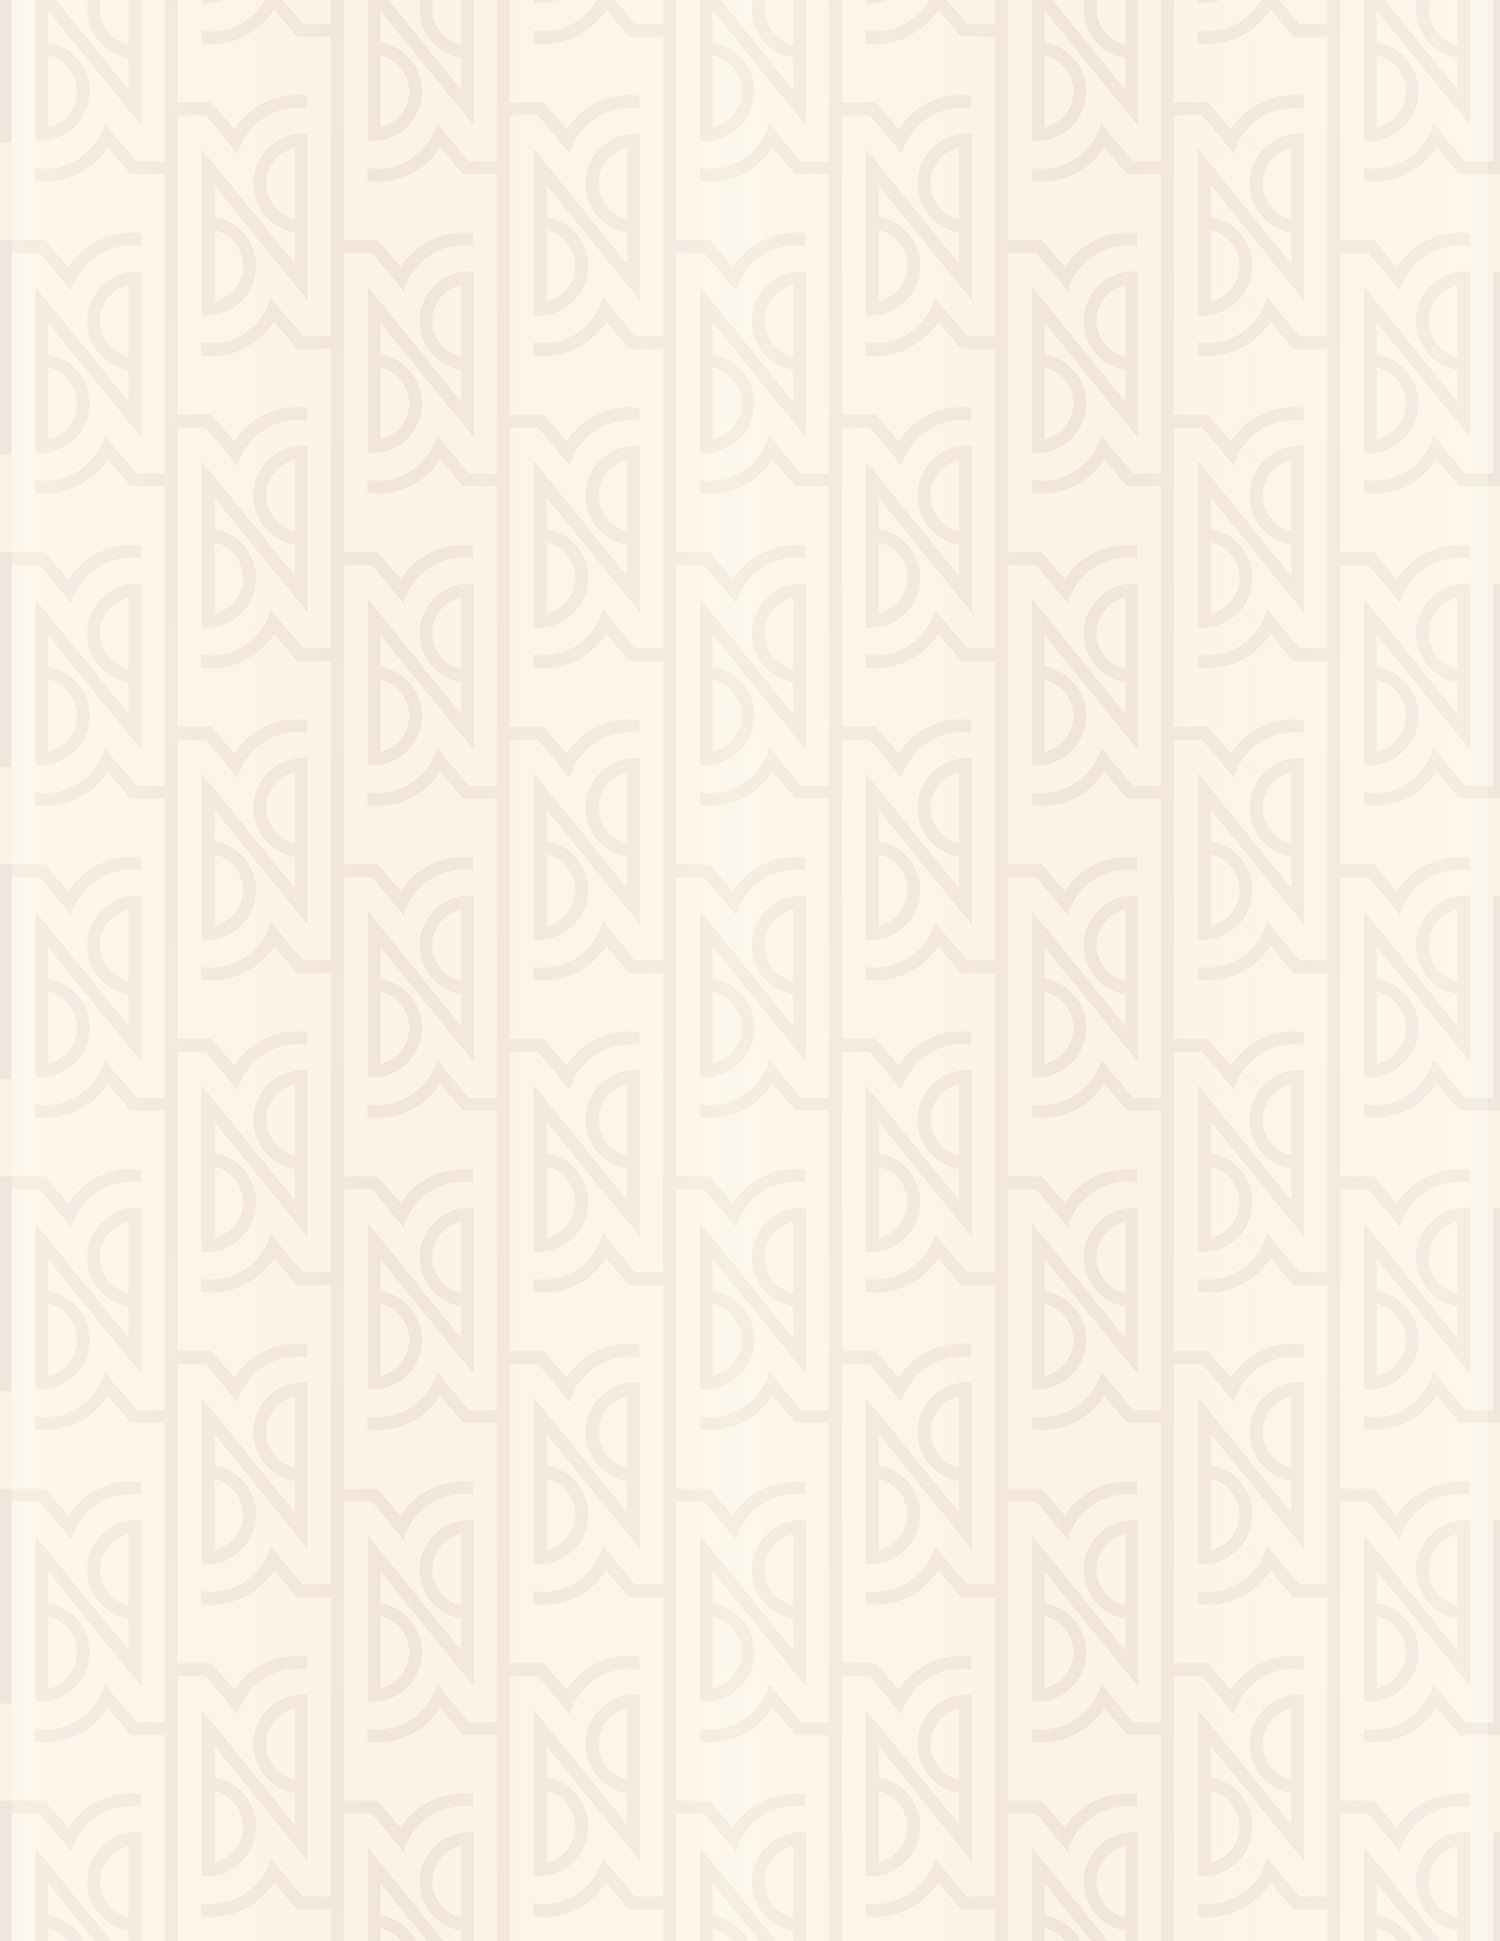
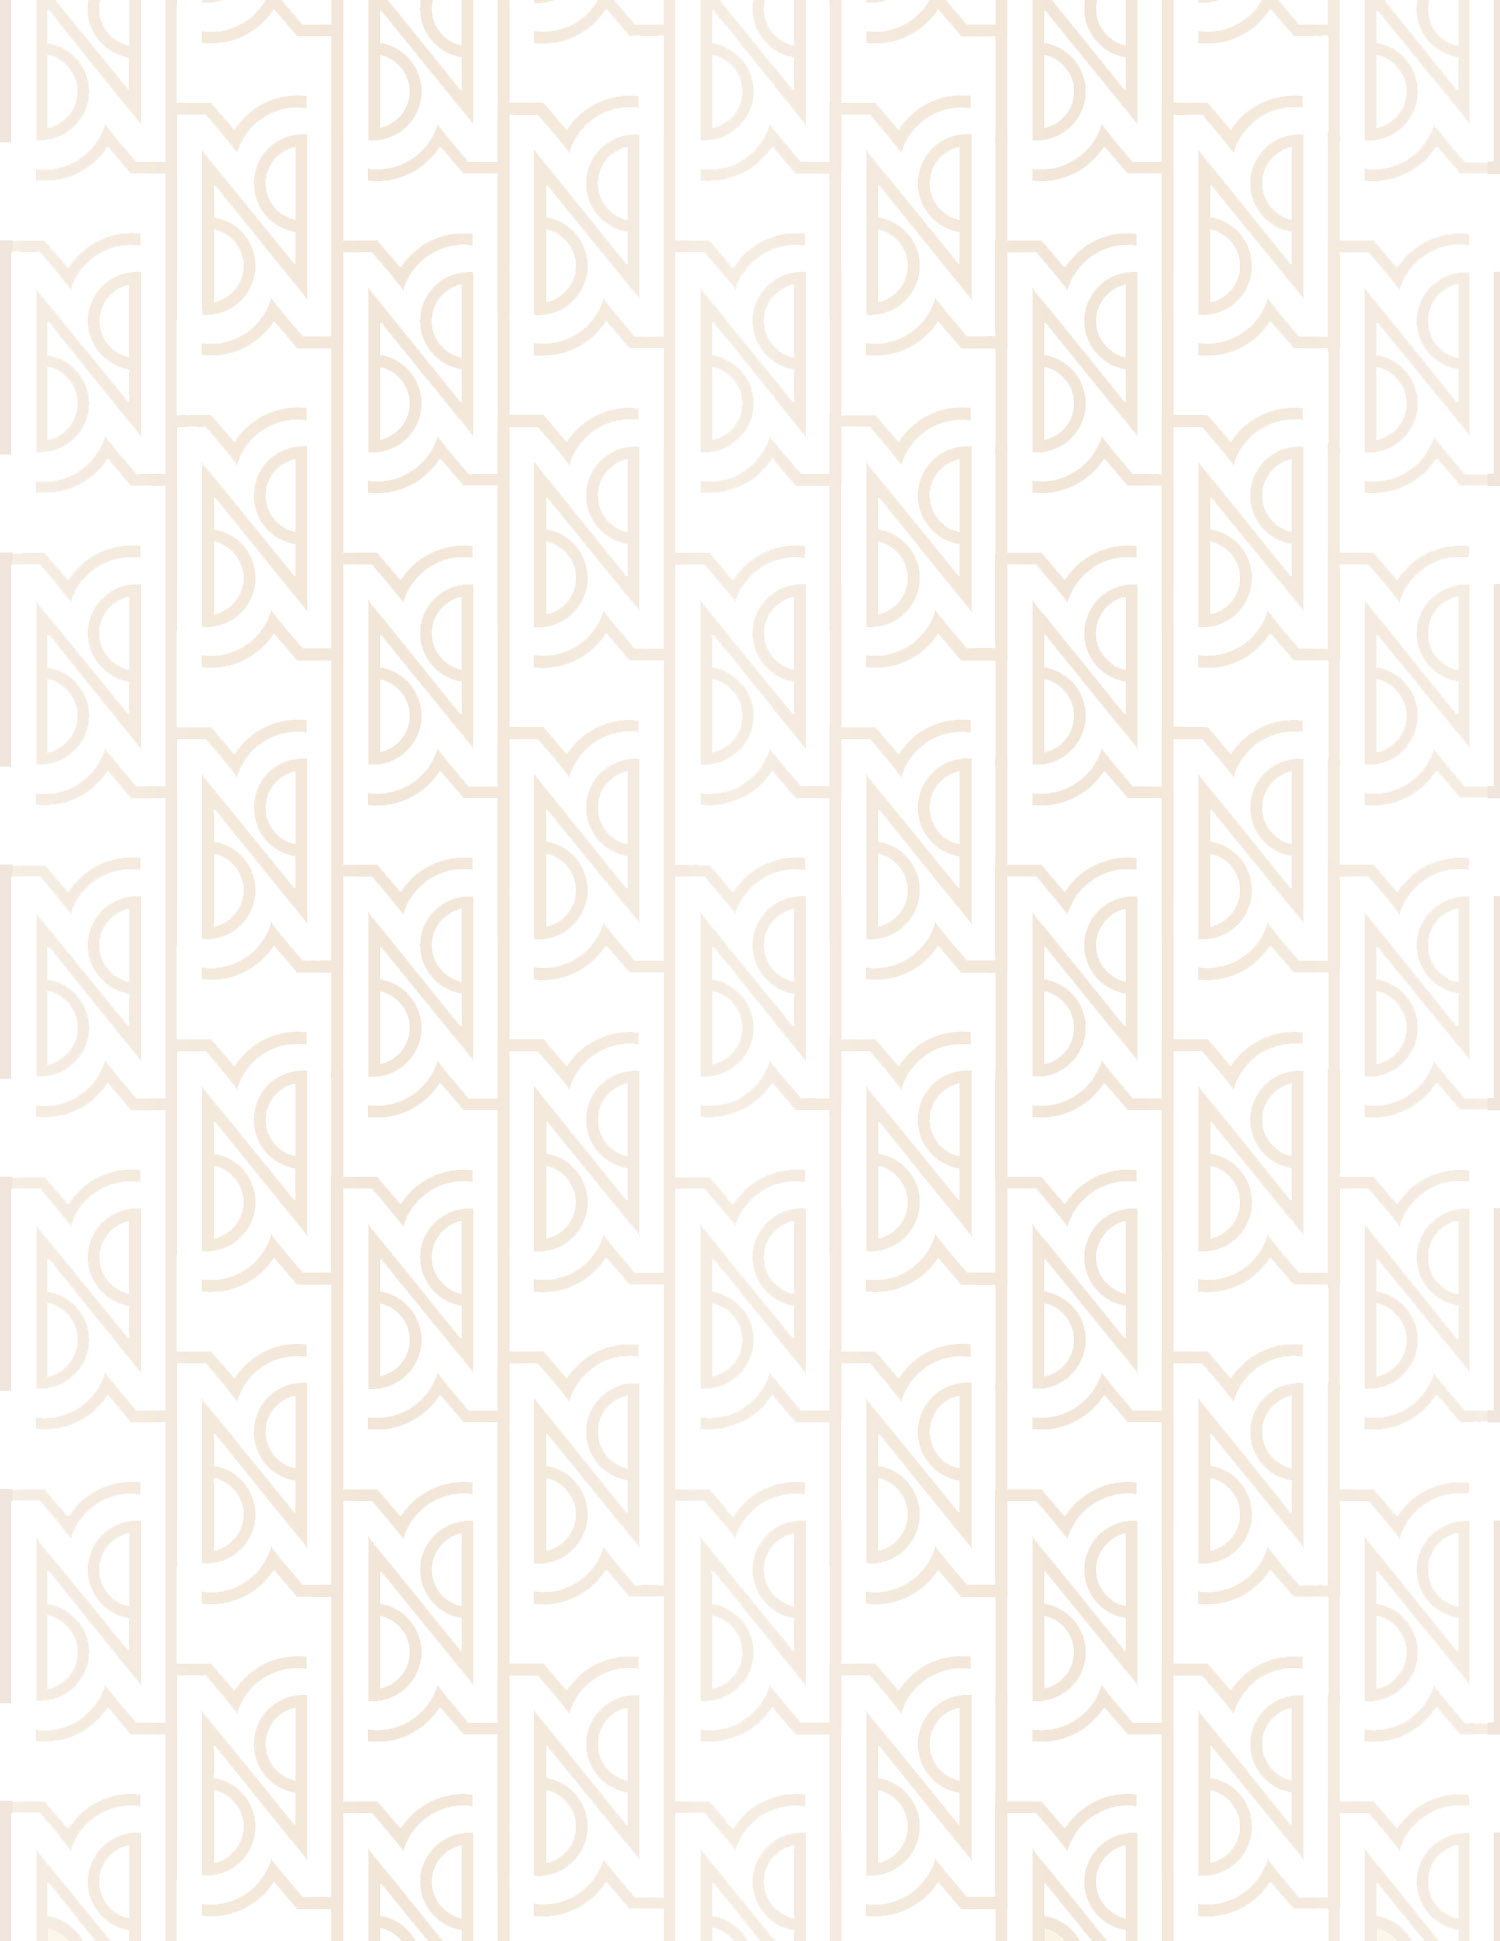
ff

diff --git a/resources/views/manager/categories/index.blade.php b/resources/views/manager/categories/index.blade.php
@@ -8,7 +8,7 @@
     $isEditing = (bool) $editCategory;
     $showModal = $isEditing || $openCreateModal || $errors->any();
     $editLink = fn (int $id) => route('manager.categories.index', ['edit' => $id]);
-    $activeChecked = old('is_active') !== null ? (bool) old('is_active') : ($editCategory->is_active ?? true);
+    $activeChecked = filter_var(old('is_active', $editCategory->is_active ?? true), FILTER_VALIDATE_BOOLEAN);
     $primarySectionId = (int) old('section_id', $editCategory->section_id ?? 0);
     $selectedSecondary = array_map('intval', old('secondary_section_ids', $secondarySectionIds ?? []));
     $suggestedOrder = $nextDisplayOrderBySection[$primarySectionId] ?? $nextDisplayOrder;
@@ -129,6 +129,7 @@
 
                 <div class="form-group">
                     <div style="display: flex; align-items: center; gap: 10px;">
+                        <input type="hidden" name="is_active" value="0">
                         <input type="checkbox" id="is_active" name="is_active" value="1" style="width: 20px; height: 20px;" @checked($activeChecked)>
                         <label class="form-label" for="is_active" style="margin: 0;">Active</label>
                     </div>

diff --git a/resources/views/manager/sections/index.blade.php b/resources/views/manager/sections/index.blade.php
@@ -8,7 +8,7 @@
     $isEditing = (bool) $editSection;
     $showModal = $isEditing || $openCreateModal || $errors->any();
     $editLink = fn (int $id) => route('manager.sections.index', ['edit' => $id]);
-    $activeChecked = old('is_active') !== null ? (bool) old('is_active') : ($editSection?->is_active ?? true);
+    $activeChecked = filter_var(old('is_active', $editSection?->is_active ?? true), FILTER_VALIDATE_BOOLEAN);
 @endphp
 
 <div class="page-header">
@@ -73,6 +73,7 @@
 
                 <div class="form-group">
                     <label class="form-label" style="display: flex; align-items: center; gap: 8px; cursor: pointer;">
+                        <input type="hidden" name="is_active" value="0">
                         <input type="checkbox" name="is_active" value="1" @checked($activeChecked)>
                         Active (visible on public menu)
                     </label>

diff --git a/public/templates/template18/index.php b/public/templates/template18/index.php
@@ -72,7 +72,7 @@ body.nfm-body {
   inset: 0;
   z-index: 0;
   pointer-events: none;
-  background-image: url('<?php echo htmlspecialchars($nfmTemplateBaseUrl); ?>/Nostalgia_MENU_BACKGROUND.jpg');
+  background-image: url('<?php echo htmlspecialchars($nfmTemplateBaseUrl); ?>/NostalgiaMENU_BACKGROUND.png');
   background-repeat: repeat;
   background-size: 720px 720px;
   opacity: 0.55;

diff --git a/public/templates/template18/template18/index.php b/public/templates/template18/template18/index.php
@@ -72,7 +72,7 @@ body.nfm-body {
   inset: 0;
   z-index: 0;
   pointer-events: none;
-  background-image: url('<?php echo htmlspecialchars($nfmTemplateBaseUrl); ?>/Nostalgia_MENU_BACKGROUND.jpg');
+  background-image: url('<?php echo htmlspecialchars($nfmTemplateBaseUrl); ?>/NostalgiaMENU_BACKGROUND.png');
   background-repeat: repeat;
   background-size: 720px 720px;
   opacity: 0.55;

diff --git a/resources/views/menu/php-templates/template18/index.php b/resources/views/menu/php-templates/template18/index.php
@@ -72,7 +72,7 @@ body.nfm-body {
   inset: 0;
   z-index: 0;
   pointer-events: none;
-  background-image: url('<?php echo htmlspecialchars($nfmTemplateBaseUrl); ?>/Nostalgia_MENU_BACKGROUND.jpg');
+  background-image: url('<?php echo htmlspecialchars($nfmTemplateBaseUrl); ?>/NostalgiaMENU_BACKGROUND.png');
   background-repeat: repeat;
   background-size: 720px 720px;
   opacity: 0.55;

diff --git a/app/Http/Controllers/Manager/CategoryController.php b/app/Http/Controllers/Manager/CategoryController.php
@@ -199,7 +199,7 @@ class CategoryController extends Controller
             'slug' => $slug,
             'description' => $data['description'] ?? null,
             'display_order' => (int) $order,
-            'is_active' => $request->boolean('is_active', true),
+            'is_active' => $request->boolean('is_active'),
         ];
     }
 

diff --git a/app/Http/Controllers/Manager/SectionController.php b/app/Http/Controllers/Manager/SectionController.php
@@ -136,7 +136,7 @@ class SectionController extends Controller
             'name' => $data['name'],
             'slug' => $slug,
             'display_order' => (int) $order,
-            'is_active' => $request->boolean('is_active', true),
+            'is_active' => $request->boolean('is_active'),
         ];
     }
 
